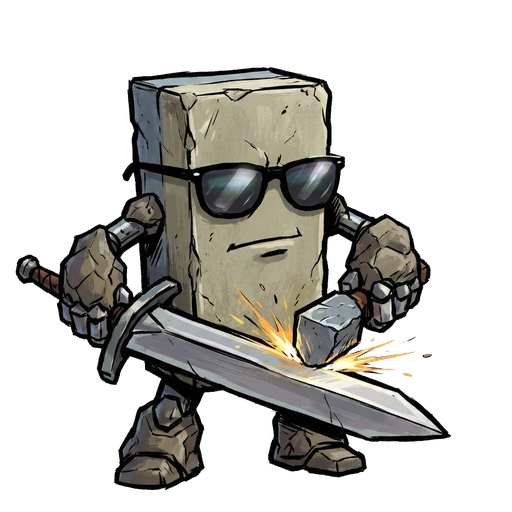
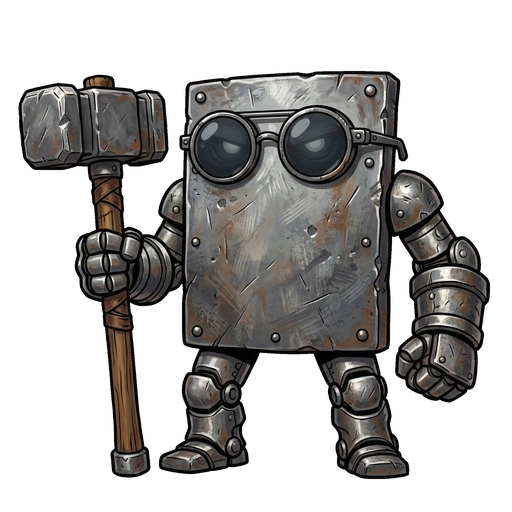
特別モンスターを追加 ショップのウィンドウカラーを変更

diff --git a/js/game.js b/js/game.js
@@ -38,7 +38,8 @@ class Game {
 
         this.dodgeStreak = 0;       // 連続回避カウント (0–3)
         this.specialMoveReady = false; // 必殺技待機フラグ
-        this.hasSpecialMonsterAppeared = false; // スペシャルモンスター出現済みフラグ
+        this.timers = [];
+        this.specialMonstersAppeared = []; // スペシャルモンスター出現済みリスト
 
         // Gold & Bag
         this.gold = Math.min(parseInt(localStorage.getItem('math_battle_gold')) || 0, CONSTANTS.MAX_GOLD);
@@ -210,9 +211,7 @@ class Game {
             document.getElementById('shop-item-overlay').classList.remove('active');
             this._shopSelectedItemIdx = null;
         });
-        document.getElementById('shop-msg-close-btn').addEventListener('click', () => {
-            document.getElementById('shop-msg-overlay').classList.remove('active');
-        });
+        // [REMOVED shop-msg-close-btn listener because of auto-close]
 
         // Kaban Slot (battle) — カバンアイコンをタップでカバンウィンドウを開く
         const kabanSlotImg = document.getElementById('kaban-slot-img');
@@ -296,7 +295,8 @@ class Game {
         // Init Monsters (初期化は通常モンスターのみ。実際の抽選は _determineMonster でおこなう)
         this.monsters = [];
         const opCount = this.operators.length;
-        this.hasSpecialMonsterAppeared = false;
+        this.defeatTimes = [];
+        this.specialMonstersAppeared = [];
         for (let i = 1; i <= CONSTANTS.TOTAL_MONSTERS; i++) {
             const m = new Monster(i, false, false, opCount, this.leftDigits, this.rightDigits, false);
             this.monsters.push(m);
@@ -1297,12 +1297,22 @@ class Game {
 
             // Bonuses
             if (m.isSpecial) {
-                // Special: ドロップなし → 武器補正 +1 → ノート登録
-                this.swordBonus += 1;
-                this.sound.playSe('atkup');
-                this._showAtkUpEffect();
-                hasBonus = true;
-                this._showMessage('けんのつよさが\nあがった！', false, 2000, 'text-player-action');
+                if (m.name === 'ミスターといし') {
+                    // ドロップなし → 武器補正 +1 → ノート登録
+                    this.swordBonus += 1;
+                    this.sound.playSe('atkup');
+                    this._showAtkUpEffect();
+                    hasBonus = true;
+                    this._showMessage('けんのつよさが\nあがった！', false, 2000, 'text-player-action');
+                } else if (m.name === 'ミスターてっぱん') {
+                    // ドロップなし → 盾の耐久度 +1 → ノート登録
+                    this.shieldDurability += 1;
+                    this.sound.playSe('atkup');  // ミスターといしに準ずるため同じSE
+                    this._showDefUpEffect();     // ぼうぎょだま使用時と同じエフェクト
+                    hasBonus = true;
+                    this._showMessage('たてのたいきゅうが\nあがった！', false, 2000, 'text-player-action');
+                }
+
                 setTimeout(() => {
                     if (isNewRecord) {
                         this._showNoteRegistration(m.name, () => this._nextMonster());
@@ -1529,10 +1539,16 @@ class Game {
         }
 
         // 第2優先：Special判定（一度出たらもう出ない）
-        if (!isLowHp && !this.hasSpecialMonsterAppeared && Math.random() < 0.05) {
-            this.hasSpecialMonsterAppeared = true;
-            this.monsters[idx] = new Monster(m.number, false, false, m.opCount, m.leftDigits, m.rightDigits, true);
-            return;
+        if (!isLowHp) {
+            // Find which specials haven't appeared yet
+            const availableSpecials = ['ミスターといし', 'ミスターてっぱん'].filter(name => !this.specialMonstersAppeared.includes(name));
+            if (availableSpecials.length > 0 && Math.random() < 0.05) {
+                // Pick one randomly
+                const chosenSpecial = availableSpecials[Math.floor(Math.random() * availableSpecials.length)];
+                this.specialMonstersAppeared.push(chosenSpecial);
+                this.monsters[idx] = new Monster(m.number, false, false, m.opCount, m.leftDigits, m.rightDigits, chosenSpecial);
+                return;
+            }
         }
 
         // 第3優先：回復キャラ判定
@@ -2224,8 +2240,15 @@ class Game {
     }
 
     _showShopMsg(msg) {
+        const ov = document.getElementById('shop-msg-overlay');
         document.getElementById('shop-msg-text').textContent = msg;
-        document.getElementById('shop-msg-overlay').classList.add('active');
+        ov.classList.add('active');
+
+        // 1秒後に自動で消える
+        if (this._shopMsgTimeout) clearTimeout(this._shopMsgTimeout);
+        this._shopMsgTimeout = setTimeout(() => {
+            ov.classList.remove('active');
+        }, 1000);
     }
 
     _updateItemCollection(itemName) {

diff --git a/css/overlay.css b/css/overlay.css
@@ -780,19 +780,18 @@
 .shop-msg-text {
     font-family: var(--font-pixel);
     font-size: 36px;
-    color: var(--danger-color);
+    color: #4facfe;
     text-align: center;
     line-height: 1.6;
     white-space: pre-line;
-    margin-bottom: 24px;
 }
 
 .shop-msg-overlay .overlay-content {
     background: var(--panel-color);
-    border: 3px solid var(--danger-color);
+    border: 3px solid #4facfe;
     border-radius: 20px;
     padding: 40px 50px;
-    box-shadow: 0 0 20px rgba(255, 75, 75, 0.4);
+    box-shadow: 0 0 20px rgba(79, 172, 254, 0.4);
 }
 
 .shop-msg-overlay #shop-msg-close-btn {
@@ -875,11 +874,26 @@
     padding: 40px 50px;
 }
 
-#app.portrait-mode .bag-detail-name { font-size: 48px; }
-#app.portrait-mode .bag-detail-desc { font-size: 32px; }
-#app.portrait-mode .bag-detail-limit { font-size: 28px; }
-#app.portrait-mode .bag-detail-count { font-size: 36px; }
-#app.portrait-mode .bag-detail-close-btn { font-size: 40px; padding: 18px 60px; }
+#app.portrait-mode .bag-detail-name {
+    font-size: 48px;
+}
+
+#app.portrait-mode .bag-detail-desc {
+    font-size: 32px;
+}
+
+#app.portrait-mode .bag-detail-limit {
+    font-size: 28px;
+}
+
+#app.portrait-mode .bag-detail-count {
+    font-size: 36px;
+}
+
+#app.portrait-mode .bag-detail-close-btn {
+    font-size: 40px;
+    padding: 18px 60px;
+}
 
 /* ============================================================
    戦闘中カバンオーバーレイ
@@ -1009,7 +1023,9 @@
     width: 680px;
 }
 
-#app.portrait-mode .battle-bag-title { font-size: 38px; }
+#app.portrait-mode .battle-bag-title {
+    font-size: 38px;
+}
 
 #app.portrait-mode .battle-bag-grid {
     gap: 18px;
@@ -1026,8 +1042,13 @@
     height: 70px;
 }
 
-#app.portrait-mode .battle-bag-item-count { font-size: 30px; }
-#app.portrait-mode .battle-bag-item-name  { font-size: 22px; }
+#app.portrait-mode .battle-bag-item-count {
+    font-size: 30px;
+}
+
+#app.portrait-mode .battle-bag-item-name {
+    font-size: 22px;
+}
 
 #app.portrait-mode .battle-item-confirm button {
     font-size: 38px;
@@ -1044,10 +1065,23 @@
     min-height: 80px;
 }
 
-#app.landscape-mode .battle-bag-item-img { width: 40px; height: 40px; }
-#app.landscape-mode .battle-bag-item-count { font-size: 18px; }
-#app.landscape-mode .battle-bag-item-name  { font-size: 14px; }
-#app.landscape-mode .battle-item-confirm button { font-size: 24px; padding: 10px 28px; }
+#app.landscape-mode .battle-bag-item-img {
+    width: 40px;
+    height: 40px;
+}
+
+#app.landscape-mode .battle-bag-item-count {
+    font-size: 18px;
+}
+
+#app.landscape-mode .battle-bag-item-name {
+    font-size: 14px;
+}
+
+#app.landscape-mode .battle-item-confirm button {
+    font-size: 24px;
+    padding: 10px 28px;
+}
 
 /* ============================================================
    つかえないよ！ メッセージ
@@ -1074,5 +1108,10 @@
     text-shadow: 0 0 10px rgba(255, 75, 75, 0.6);
 }
 
-#app.portrait-mode .item-limit-text { font-size: 52px; }
-#app.landscape-mode .item-limit-text { font-size: 36px; }
+#app.portrait-mode .item-limit-text {
+    font-size: 52px;
+}
+
+#app.landscape-mode .item-limit-text {
+    font-size: 36px;
+}

diff --git a/js/monster.js b/js/monster.js
@@ -16,8 +16,10 @@ const BOSS_ATK = [0, 4, 4, 4, 4, 4, 5, 5, 5, 5, 5, 6, 6, 6, 6, 6, 7];
 const SPECIAL_MONSTER_DATA = {
     'ミスターといし': {
         quote: 'ぶきをつよくしてやろうか・・？'
+    },
+    'ミスターてっぱん': {
+        quote: 'たてをつよくしてやろう'
     }
-    // 今後のSpecialモンスターはここに追加
 };
 
 class Monster {
@@ -25,7 +27,9 @@ class Monster {
         this.number = number;
         this.isRare = isRare;
         this.isHeal = isHeal;
-        this.isSpecial = isSpecial;
+        this.isSpecial = isSpecial; // {boolean}
+        this.specialName = (typeof isSpecial === 'string') ? isSpecial : null; // Special monster specific name identifier
+        if (this.specialName) this.isSpecial = true;
         this.opCount = opCount;
         this.leftDigits = leftDigits;
         this.rightDigits = rightDigits; // needed for boss06 check logic
@@ -177,7 +181,11 @@ function findMonsterImage(monster) {
     } else if (monster.isHeal) {
         candidates = assets.filter(f => f.toLowerCase().startsWith('heal_'));
     } else if (monster.isSpecial) {
-        candidates = assets.filter(f => f.toLowerCase().startsWith('special_'));
+        if (monster.specialName) {
+            candidates = assets.filter(f => f.toLowerCase().startsWith(`special_${monster.specialName}.`));
+        } else {
+            candidates = assets.filter(f => f.toLowerCase().startsWith('special_'));
+        }
     } else {
         // Try specific Boss prefix first if it's the boss stage (10)
         if (monster.number === 10) {

diff --git a/index.html b/index.html
@@ -190,7 +190,8 @@
                             <img id="shield-label" class="sword-label" src="assets/image/equipment/shield01.webp"
                                 alt="はがねのたて" style="visibility:hidden;">
                             <div id="item-slot-container" class="item-slot-container">
-                                <img id="kaban-slot-img" class="item-slot-img kaban-slot-img" src="assets/image/other/kaban.webp" alt="カバン">
+                                <img id="kaban-slot-img" class="item-slot-img kaban-slot-img"
+                                    src="assets/image/other/kaban.webp" alt="カバン">
                             </div>
                         </div>
                         <div class="hp-status">
@@ -252,7 +253,6 @@
         <div id="shop-msg-overlay" class="overlay shop-msg-overlay">
             <div class="overlay-content">
                 <p id="shop-msg-text" class="shop-msg-text"></p>
-                <button id="shop-msg-close-btn" class="primary-btn">とじる</button>
             </div>
         </div>
 

diff --git a/assets/monster_list.js b/assets/monster_list.js
@@ -140,6 +140,7 @@
     "Boss15next_ぼろぼろのヤンダ.webp",
     "Boss16_こうてつカブトサムライ.webp",
     "Boss16next_しんのかみダイオウグソクナイト.webp",
+    "Special_ミスターてっぱん.webp",
     "Special_ミスターといし.webp",
     "Heal_おやみみ～.webp",
     "Heal_かいふくぐさ.webp",

diff --git a/仕様書.md b/仕様書.md
@@ -146,6 +146,7 @@
 * **レアモンスター**: プレイヤーのHPが60%以上の時に出現率2%。倒すと装備（剣・盾）を2段階上のものを確定ドロップ（上限を超える場合は1段階、またはドロップなし）。
 * **回復モンスター**: プレイヤーのHPが低いほど出現率アップ（最大40%）。倒すとHP全回復し、盾の2段階上のものを確定ドロップ（上限調整あり）。
 * **スペシャルモンスター (ミスターといし)**: プレイヤーのHPが60%以上の時に出現率5%（1ゲーム1回）。倒すと攻撃ボーナス+1。
+* **スペシャルモンスター (ミスターてっぱん)**: プレイヤーのHPが60%以上の時に出現率5%（1ゲーム1回）。倒すと盾の耐久度が上限を超えて+1回復する（銅の盾であれば耐久2になる）。盾を所持していない場合も内部的には増加するが、盾がないため効果はない。
 
 ### 5.4 ヤン系モンスターの解放
 * 図鑑の登録状況に応じて、特定のシリーズ（ヤンダ→ヤンピ→...）が順次解放されます。
